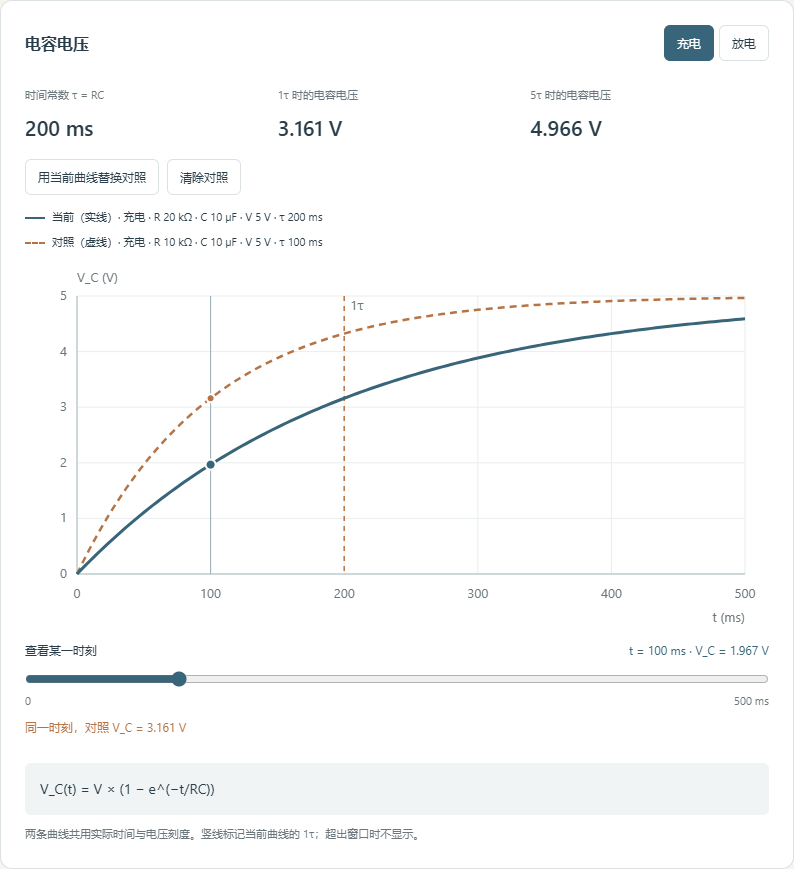
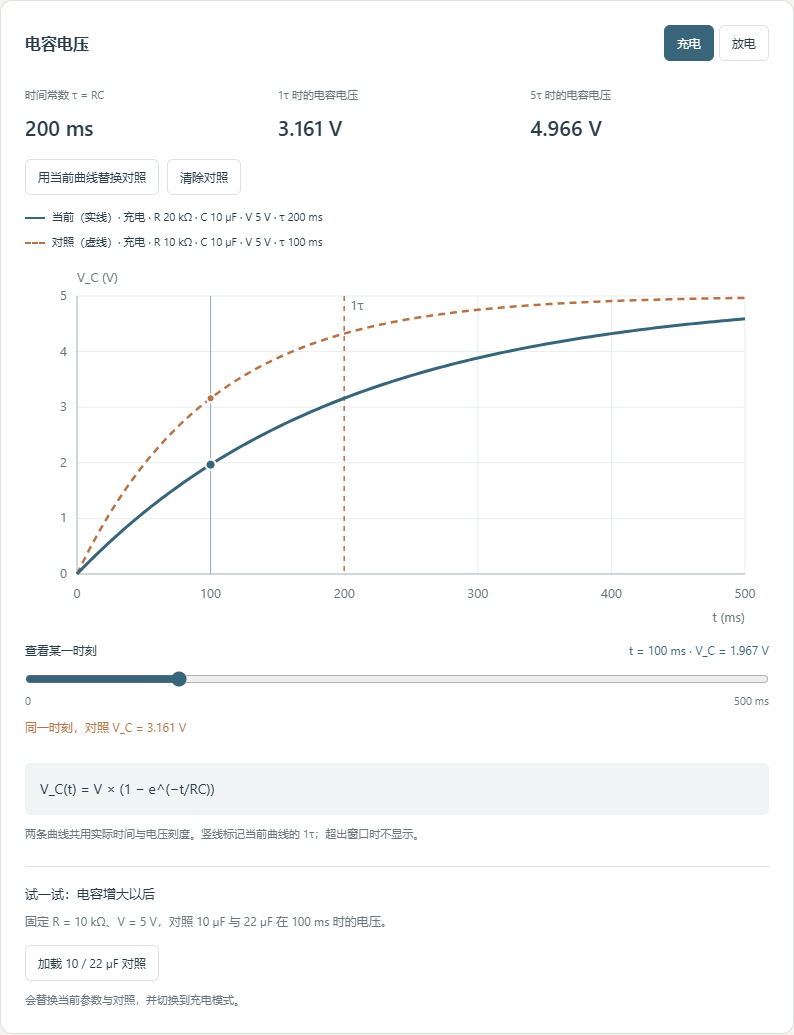
Add a loadable capacitor comparison example

diff --git a/index.html b/index.html
@@ -56,6 +56,12 @@
         <output id="reference-readout" class="reference-readout" for="cursor" hidden></output>
         <p id="formula" class="formula"></p>
         <p class="note">两条曲线共用实际时间与电压刻度。竖线标记当前曲线的 1τ；超出窗口时不显示。</p>
+        <section class="worked-example" aria-labelledby="example-title">
+          <h3 id="example-title">试一试：电容增大以后</h3>
+          <p>固定 R = 10 kΩ、V = 5 V，对照 10 µF 与 22 µF 在 100 ms 时的电压。</p>
+          <button id="load-example" type="button" aria-describedby="example-note">加载 10 / 22 µF 对照</button>
+          <p id="example-note" class="note">会替换当前参数与对照，并切换到充电模式。</p>
+        </section>
       </section>
     </div>
     <footer>只考虑一个理想电阻、一个理想电容和瞬时切换；未计入元件误差、漏电和电源内阻。<a href="https://openstax.org/books/university-physics-volume-2/pages/10-5-rc-circuits" target="_blank" rel="noopener noreferrer">公式参考：OpenStax RC Circuits</a></footer>

diff --git a/style.css b/style.css
@@ -52,6 +52,9 @@ button:focus-visible, input:focus-visible { outline: 3px solid #9bb7c0; outline-
 input[type=range] { width: 100%; accent-color: var(--blue); margin: 6px 0; }
 .range-labels { display: flex; justify-content: space-between; font-size: 11px; color: var(--muted); }
 .formula { margin: 26px 0 0; padding: 15px; border-radius: 6px; background: #f0f4f5; font-size: 14px; line-height: 1.6; overflow-wrap: anywhere; }
+.worked-example { margin-top: 22px; padding-top: 18px; border-top: 1px solid var(--line); }
+.worked-example h3 { font-size: 13px; font-weight: 500; margin: 0; }
+.worked-example > p:not(.note) { font-size: 12px; color: var(--muted); line-height: 1.8; margin: 9px 0 12px; }
 footer { color: var(--muted); font-size: 11px; line-height: 1.9; margin-top: 20px; text-align: center; }
 a { color: var(--blue); text-underline-offset: 3px; }
 footer a { display: inline-block; margin-left: 8px; }

diff --git a/app.js b/app.js
@@ -120,6 +120,13 @@ byId("capture").addEventListener("click", () => {
   draw();
 });
 byId("clear-reference").addEventListener("click", () => { reference = null; draw(); });
+byId("load-example").addEventListener("click", () => {
+  const values = { resistance: "10", capacitance: "22", voltage: "5", window: "500", cursor: "200" };
+  for (const [id, value] of Object.entries(values)) byId(id).value = value;
+  mode = "charge";
+  reference = { model: circuit(10, 10, 5), mode: "charge" };
+  update();
+});
 byId("cursor").addEventListener("input", draw);
 for (const name of ["charge", "discharge"]) byId(name).addEventListener("click", () => { mode = name; draw(); });
 window.addEventListener("resize", draw);

diff --git a/README.md b/README.md
@@ -30,6 +30,28 @@ Only one comparison is kept; replace or clear it as needed. Its voltage and mode
 
 ![同一窗口的 RC 对照曲线 / RC curves in the same time window](docs/comparison.png)
 
+## 一个电容对照例子 / A capacitance example
+
+点击页面底部的“加载 10 / 22 µF 对照”。这会用下面的两组充电参数替换当前参数和对照，窗口设为 500 ms，滑块放在 100 ms。
+
+Click “加载 10 / 22 µF 对照” below the chart. This replaces the current circuit and reference with the two charging cases below, sets a 500 ms window, and moves the cursor to 100 ms.
+
+| 参数 / Parameter | 对照 / Reference | 当前 / Current |
+| --- | --- | --- |
+| R | 10 kΩ | 10 kΩ |
+| C | 10 µF | 22 µF |
+| V | 5 V | 5 V |
+| τ | 100 ms | 220 ms |
+| V_C at 100 ms | ≈ 3.161 V | ≈ 1.826 V |
+
+同一时刻，较大的电容充电更慢。这里比较的是相同的实际时间；如果各看各的 1τ，两者都会达到约 3.161 V。表中数值由本项目的理想模型计算，页面按四位有效数字显示。
+
+At the same actual time, the larger capacitor charges more slowly. At each circuit's own 1τ, however, both reach about 3.161 V. Table values are calculated by this project's ideal model; the page shows four significant figures.
+
+接着把当前 C 改为 47 µF，先猜 100 ms 的电压，再查看读数。想改代码，可以把例子里的 22 µF 换成 47 µF，同时更新按钮、讲解和表中的计算结果。
+
+Next, change the current C to 47 µF and predict its voltage at 100 ms before checking the reading. For a code exercise, replace 22 µF with 47 µF in the example, then update the button, explanation and calculated table values together.
+
 ## 计算方式 / Model
 
 时间常数 `τ = R × C`，计算前把单位换成 Ω 和 F。充电从 0 V 开始，接入所选电压 V 的理想电源；放电从所选电压 V 开始，电源断开，通过 R 放电。
